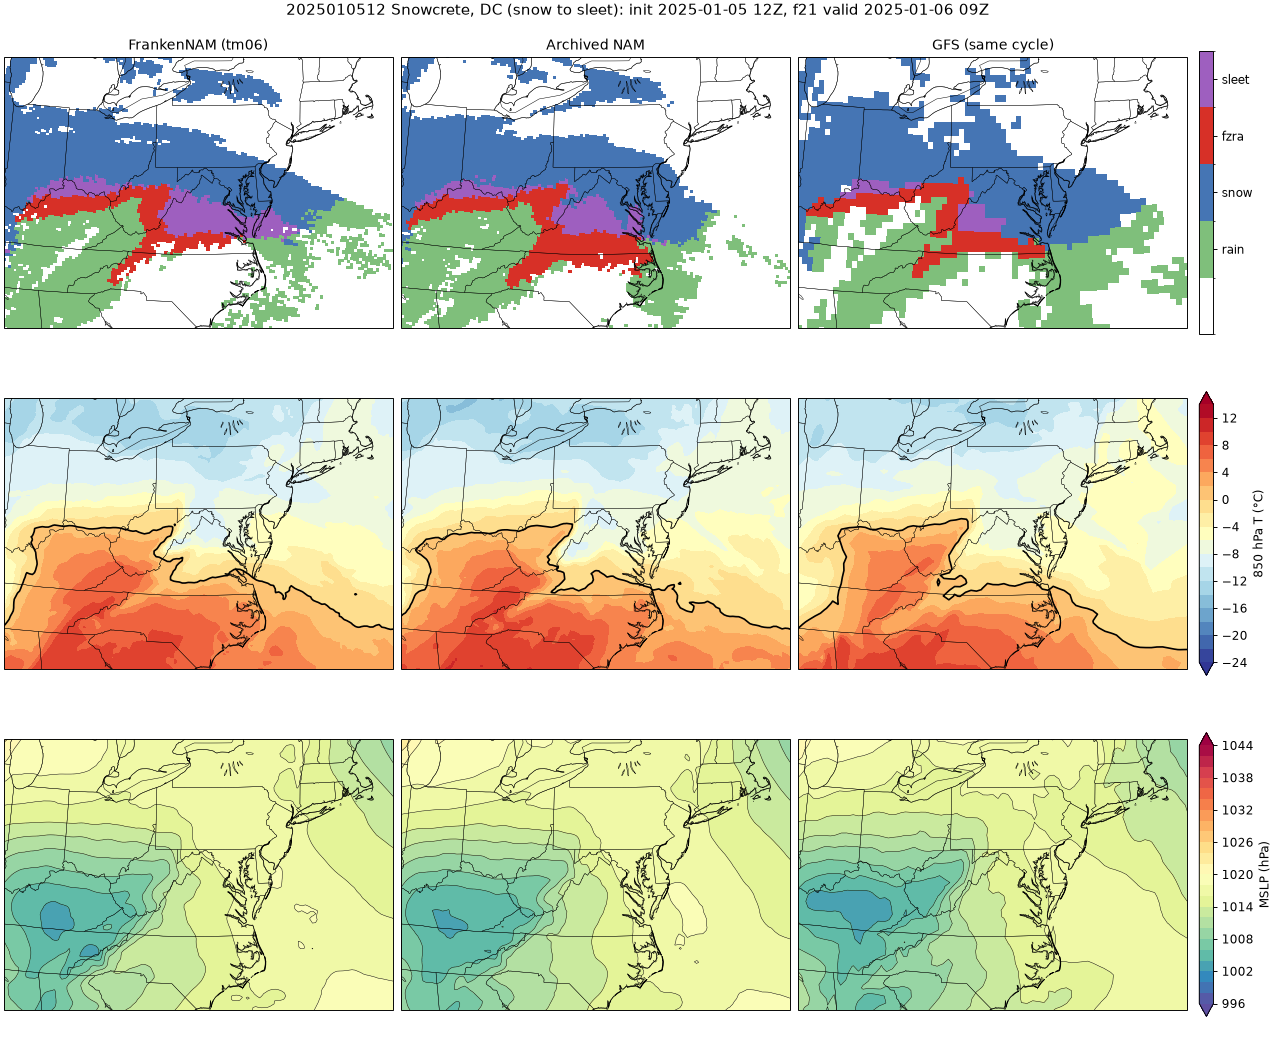
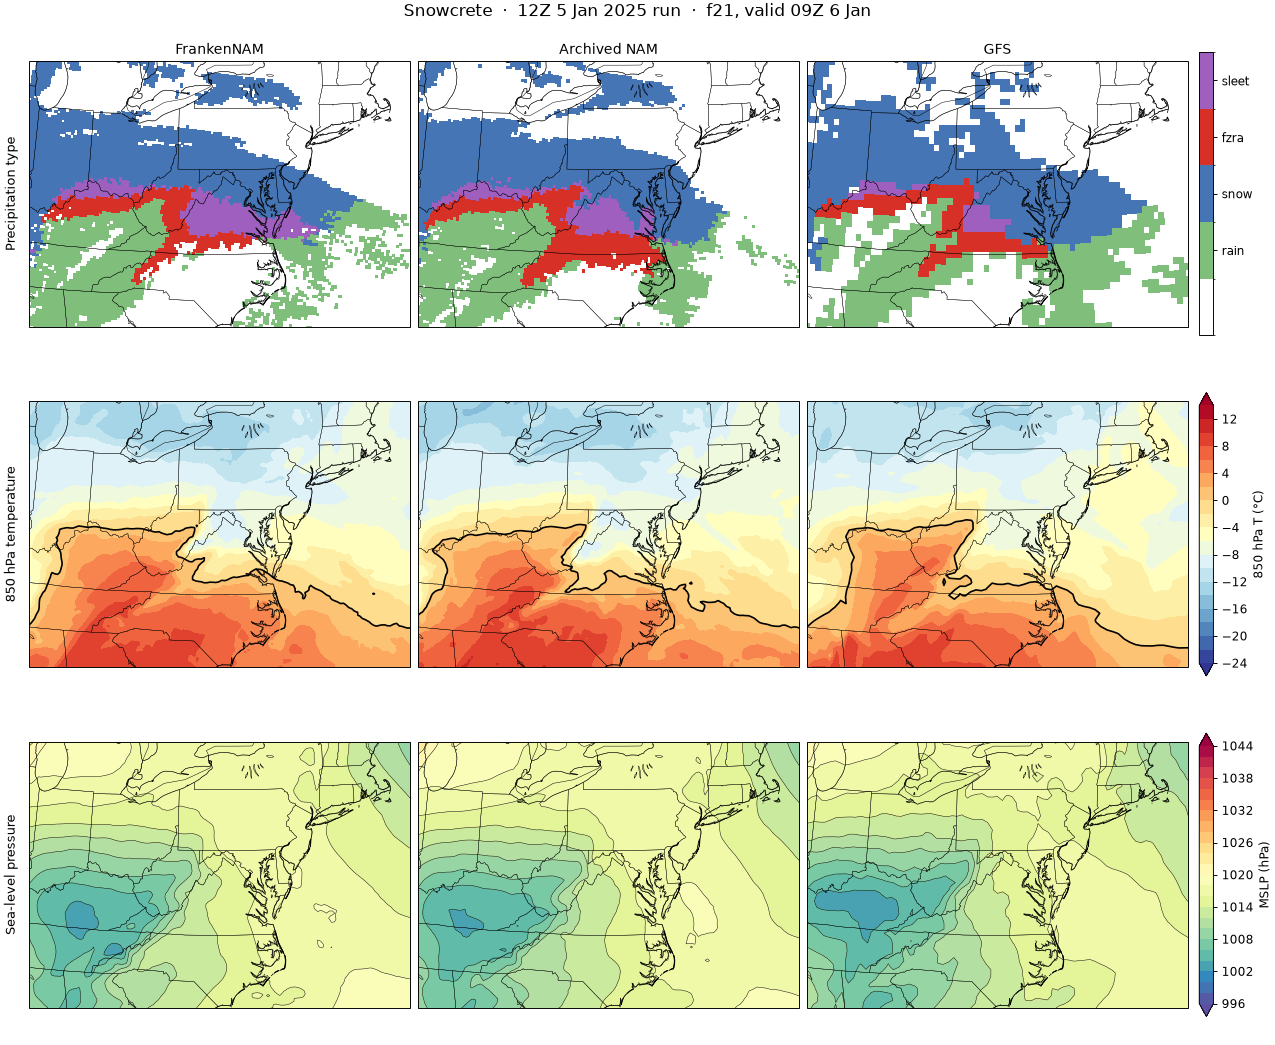
Feature figures: plain titles with dates, row labels, FrankenNAM/GFS column names, PNW low labelled, precip window stated, colourbar text

diff --git a/verify/hindcast.py b/verify/hindcast.py
@@ -237,7 +237,7 @@ STYLE = {
     "mslp": dict(cmap="viridis", levels=np.arange(940, 1052, 4), units="MSLP (hPa)", contour=True),
     "cape": dict(cmap="magma_r", levels=[100, 250, 500, 750, 1000, 1500, 2000, 2500, 3000, 4000], units="surface CAPE (J/kg)"),
     "refc": dict(cmap="turbo", levels=np.arange(5, 71, 5), units="composite reflectivity (dBZ)"),
-    "precip24": dict(cmap="GnBu", levels=[1, 2.5, 5, 10, 15, 20, 30, 40, 60, 80, 100, 150], units="24 h precip (mm)"),
+    "precip24": dict(cmap="GnBu", levels=[1, 2.5, 5, 10, 15, 20, 30, 40, 60], units="24 h precip (mm)"),
     "snow24": dict(cmap="cool", levels=[1, 2.5, 5, 7.5, 10, 15, 20, 25, 30, 40, 50], units="24 h snowfall, 10:1 from 3 h precip x CSNOW (cm)"),
     "wspd10": dict(cmap="YlOrRd", levels=np.arange(4, 32, 2), units="10 m wind (m/s)"),
     "ptype": dict(units="p-type (rain / snow / freezing rain / sleet)"),
@@ -266,11 +266,23 @@ def _draw(ax, d, f, kind, ext, mslp=None, mlev=None):
     return cf
 
 COLS = ("fnam", "nam", "gfs")
+FIG_LAB = {"fnam": "FrankenNAM", "nam": "Archived NAM", "gfs": "GFS"}          # plain names for the figures
+ROW_LAB = {"t2m": "2 m temperature", "t850": "850 hPa temperature", "mslp": "Sea-level pressure", "ptype": "Precipitation type",
+           "snow24": "24 h snowfall", "precip24": "Precipitation", "wspd10": "10 m wind", "cape": "CAPE", "refc": "Radar reflectivity"}
+CASE_NAME = {"2026012312": "CAD ice storm", "2025010512": "Snowcrete", "2025012100": "Gulf Coast snow", "2024111912": "PNW bomb cyclone",
+             "2025031412": "Plains storm", "2025122912": "Lake-effect snow", "2026110100": "Autumn case"}
+def _units(kind, L):
+    if kind == "precip24": return "24 h precip (mm)" if L >= 24 else f"precip, f00 to f{L:02d} (mm)"
+    if kind == "snow24": return "24 h snowfall, 10:1 ratio (cm)"
+    return STYLE[kind]["units"]
 def features(cases):
     log = []
     for c in cases:
         cfg = CASE_CFG[c]; C = cycle(c)
-        times, peak, s = pick_times(c)
+        if os.environ.get("NR_FEATURE_LEADS"):      # reuse the hours already chosen from the archived NAM (feature_times.txt)
+            times = [int(x) for x in os.environ["NR_FEATURE_LEADS"].split(",")]; peak, s = times[0], {}
+        else:
+            times, peak, s = pick_times(c)
         log.append(f"{c}: valid leads {times} (NAM metric peak f{peak:02d})")
         print(log[-1], flush=True)
         for L in times:
@@ -286,16 +298,21 @@ def features(cases):
                     if f is None: ax.set_visible(False); continue
                     over = d["mslp"] if kind in ("ptype", "t2m", "snow24") and "mslp" not in cfg["rows"] else None
                     cf = _draw(ax, d, f, kind, cfg["ext"], mslp=over, mlev=cfg.get("mslp"))
-                    if r == 0: ax.set_title(LAB[m.name], fontsize=12)
+                    if r == 0: ax.set_title(FIG_LAB[m.name], fontsize=12)
+                    if j == 0: ax.text(-0.03, 0.5, ROW_LAB[kind], transform=ax.transAxes, rotation=90, ha="right", va="center", fontsize=11)
+                    if kind == "mslp" and c == "2024111912":        # the case is about the depth of the low: label it
+                        bx = inbox(d, cfg["box"]); k = np.nanargmin(np.where(bx, d["mslp"], np.nan)); jj, ii = np.unravel_index(k, d["mslp"].shape)
+                        ax.text(d["lon"][jj, ii], d["lat"][jj, ii], f"L {d['mslp'][jj, ii]:.0f}", transform=ccrs.PlateCarree(), fontsize=13,
+                                fontweight="bold", ha="center", va="center", color="w", bbox=dict(boxstyle="round,pad=0.15", fc="k", ec="none", alpha=0.75))
                 if cf is not None:
                     if kind == "ptype":
                         cb = fig.colorbar(cf, ax=axs[r, :], shrink=0.85, pad=0.01, ticks=[1, 2, 3, 4])
                         cb.ax.set_yticklabels(["rain", "snow", "fzra", "sleet"])
-                    else: fig.colorbar(cf, ax=axs[r, :], shrink=0.85, pad=0.01, label=STYLE[kind]["units"])
+                    else: fig.colorbar(cf, ax=axs[r, :], shrink=0.85, pad=0.01, label=_units(kind, L))
             v = C + dt.timedelta(hours=L)
-            fig.suptitle(f"{c} {CASES[c]}: init {C:%Y-%m-%d %HZ}, f{L:02d} valid {v:%Y-%m-%d %HZ}", fontsize=13)
+            fig.suptitle(f"{CASE_NAME[c]}  \u00b7  {C:%HZ} {C.day} {C:%b %Y} run  \u00b7  f{L:02d}, valid {v:%HZ} {v.day} {v:%b}", fontsize=14)
             fn = FIG / f"features_{c}_f{L:02d}.png"; fig.savefig(fn, dpi=85); plt.close(fig); print("wrote", fn)
-        if cfg["mrms"]:
+        if cfg["mrms"] and not os.environ.get("NR_NO_MRMS"):
             L = peak; v = C + dt.timedelta(hours=L)
             lat, lon, refl = mrms_refc(v)
             fig, axs = plt.subplots(1, 3, figsize=(15, 4.6), layout="constrained",
